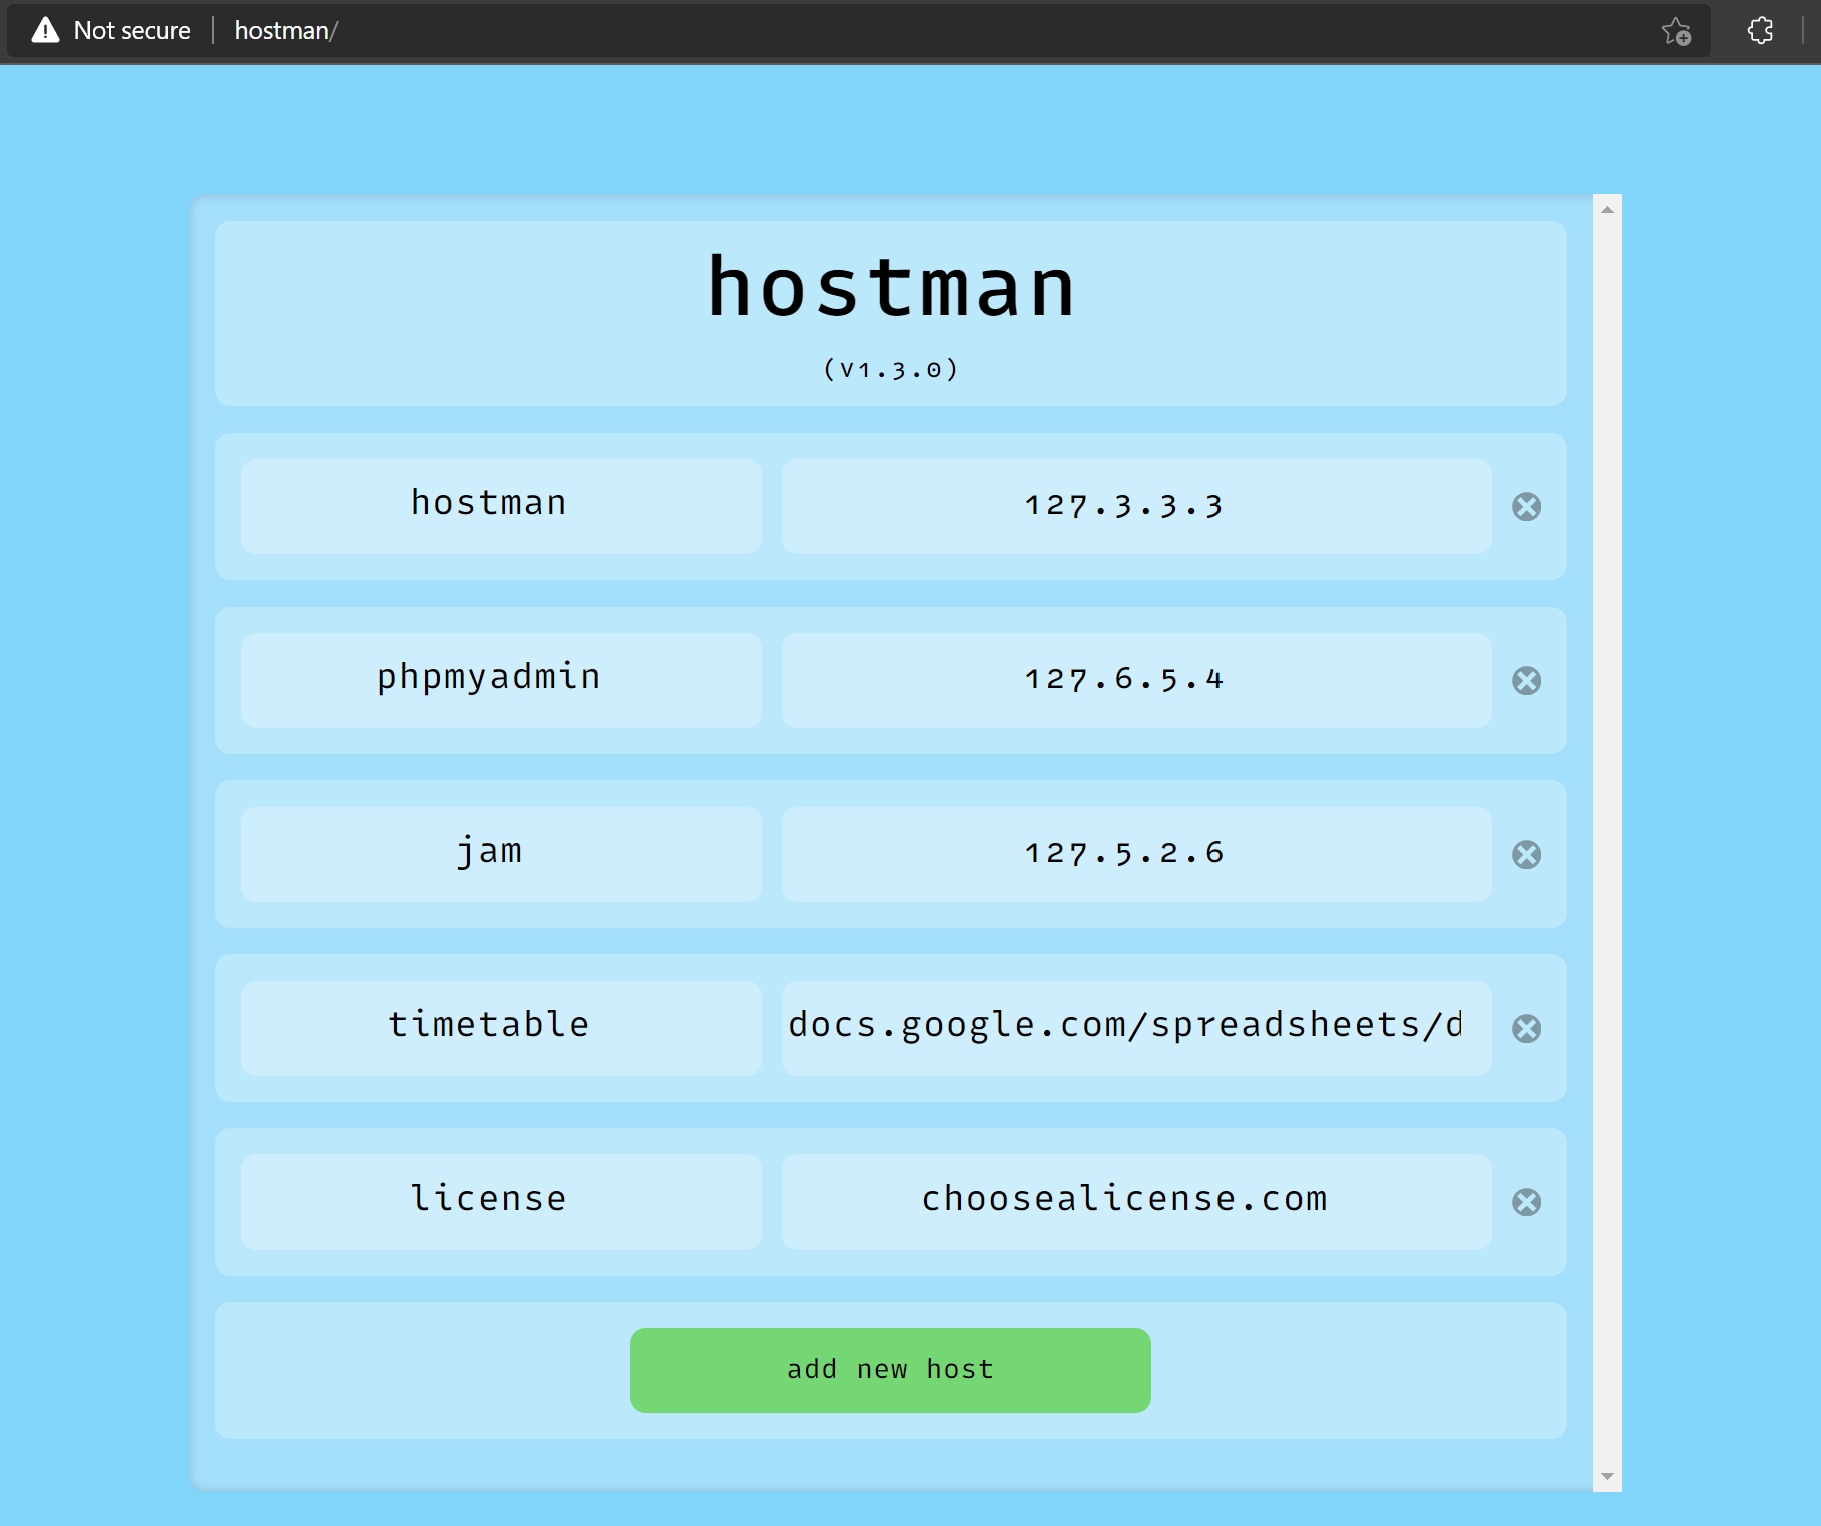
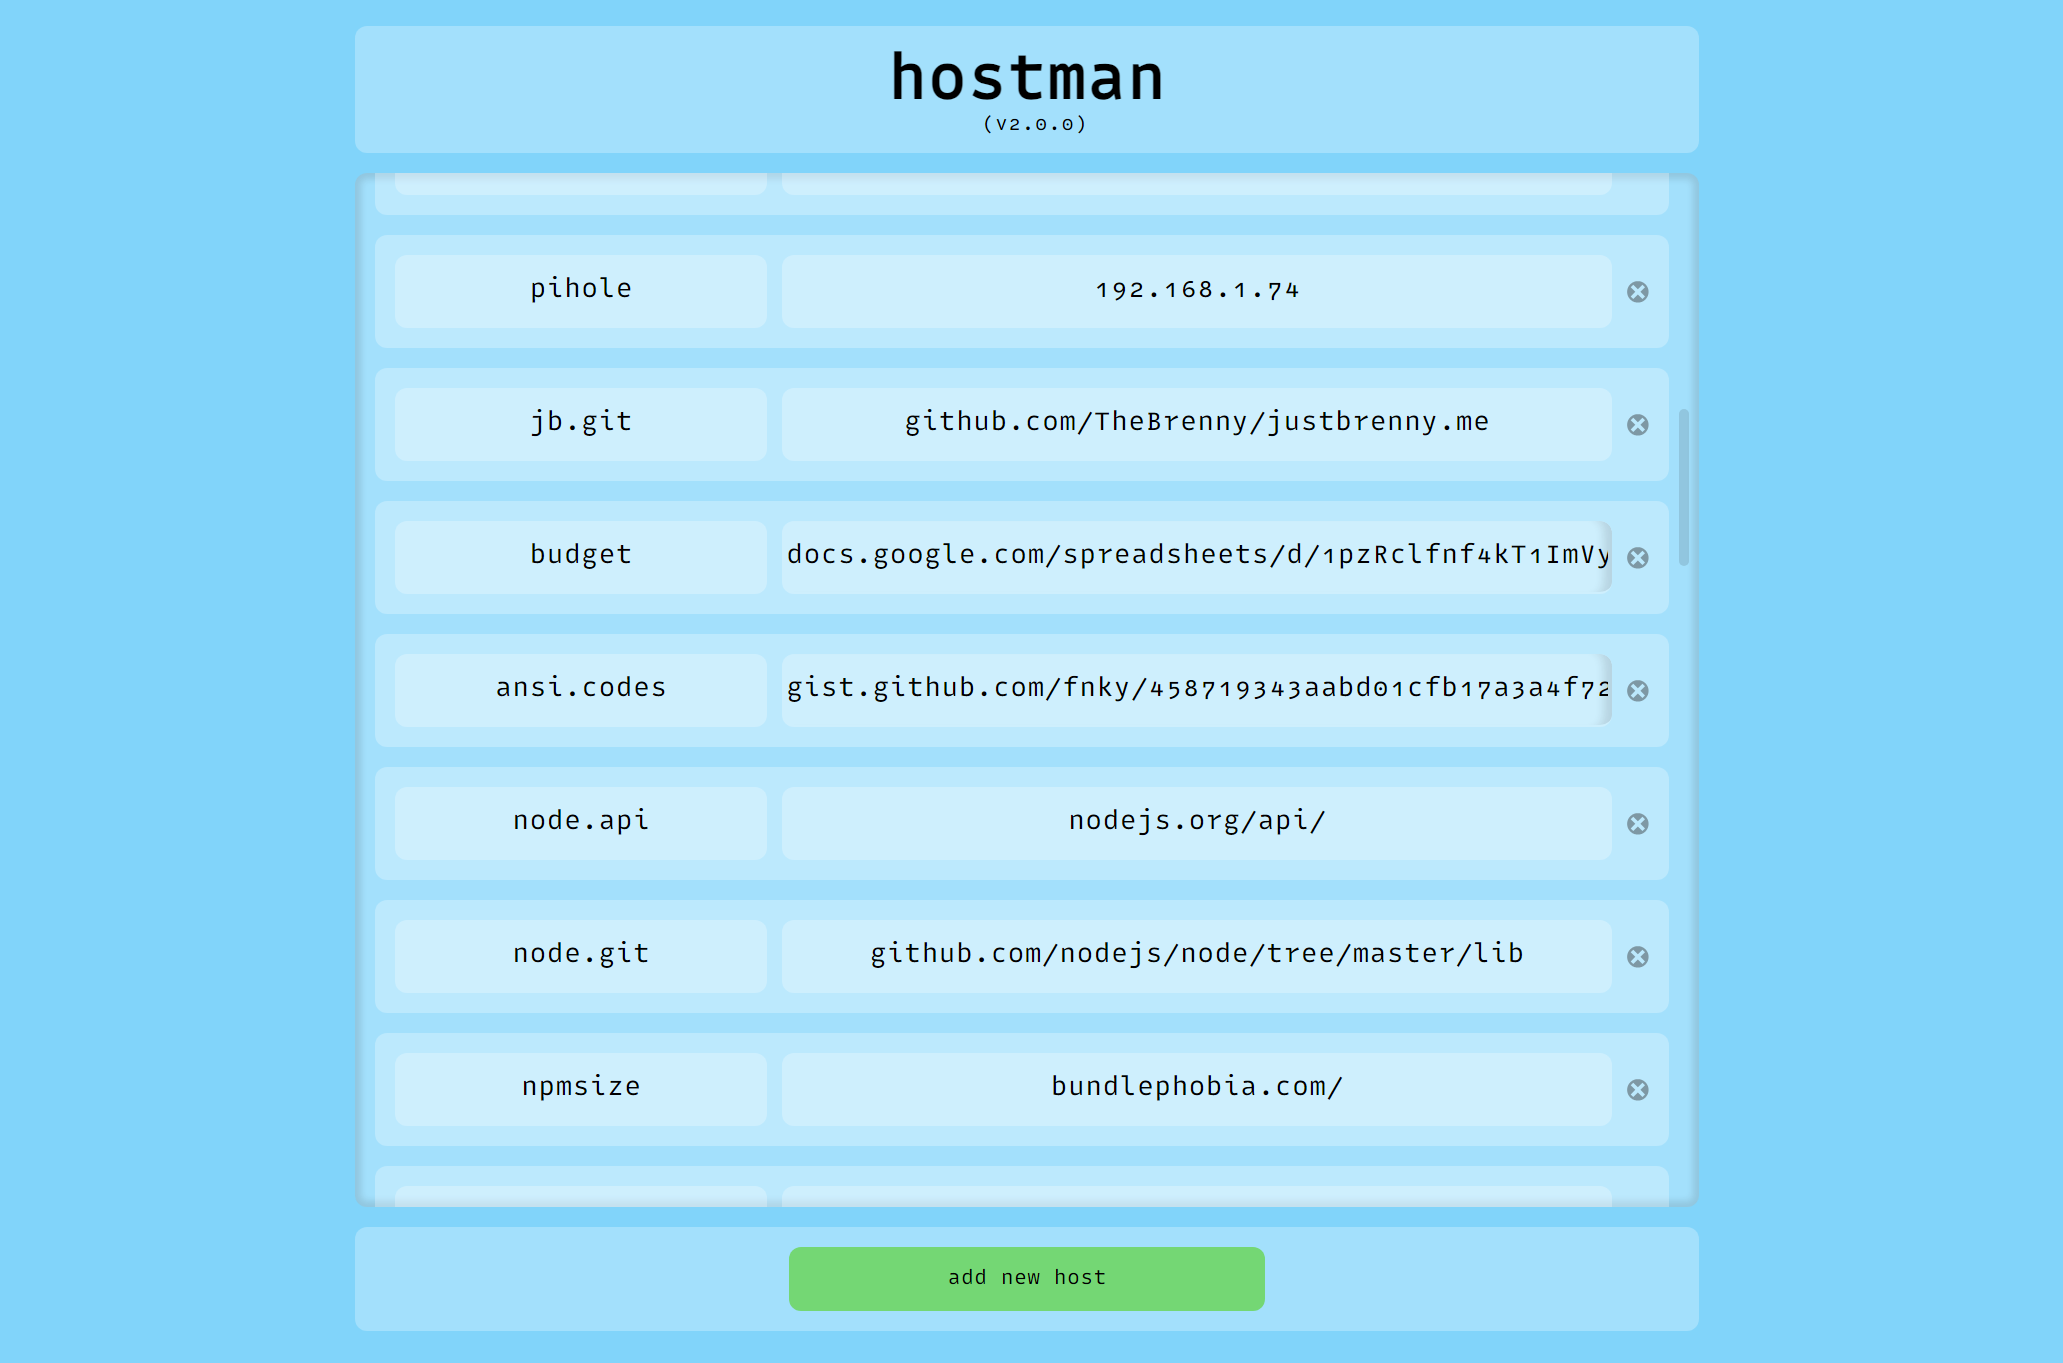
added shadow to text boxes

diff --git a/src/lib/Host.svelte b/src/lib/Host.svelte
@@ -1,5 +1,5 @@
 <script>
-    import { createEventDispatcher } from "svelte";
+    import { createEventDispatcher, onMount } from "svelte";
     import { HOST_STATES } from "./utils";
 
     export let hash = "";
@@ -94,10 +94,27 @@
         },
     };
 
-    $: if (host !== backups.host || address !== backups.address) {
-        state = HOST_STATES.DRAFT;
+    $: {
+        if (host !== backups.host || address !== backups.address) {
+            state = HOST_STATES.DRAFT;
+        }
     }
 
+    onMount(() => {
+        inputs.address?.addEventListener("scroll", () => fixShadows(inputs.address));
+        inputs.host?.addEventListener("scroll", () => fixShadows(inputs.host));
+        fixShadows(inputs.address);
+        fixShadows(inputs.host);
+    });
+
+    function fixShadows(input) {
+        if (input === null) return; // All this does is shut up the linter!
+
+        if (input.scrollWidth > input.clientWidth) {
+            input.classList.toggle("shadowLeft", input.scrollLeft > 0);
+            input.classList.toggle("shadowRight", input.scrollWidth - input.clientWidth - input.scrollLeft > 1);
+        }
+    }
     function toggleInputs(enabled) {
         Object.values(inputs).forEach((input) => input !== null && (input.disabled = !enabled));
     }
@@ -121,15 +138,19 @@
 </div>
 
 <style>
-    input.hostname,
-    input.address {
+    input[type="text"] {
         border-radius: 0.6rem;
-        padding: 1rem 1.2rem 1rem 0.2rem !important;
+        padding: 1rem 0.2rem !important;
         font-size: 1.3rem;
         border: none;
         display: block;
         box-sizing: border-box;
-        transition: border 0.2s;
+        transition:
+            border 0.2s,
+            box-shadow 0.2s;
+        box-shadow:
+            inset -0.6em 0px 7px -6px #00000000,
+            inset 0.6em 0px 7px -6px #00000000;
         background: var(--block-color);
         border-bottom: 0.1rem solid transparent;
 
@@ -137,6 +158,22 @@
         &:focus {
             border-bottom: 0.1rem solid var(--border-color);
             outline: none;
+        }
+
+        &.shadowLeft {
+            box-shadow:
+                inset -0.6em 0px 7px -6px #00000000,
+                inset 0.6em 0px 7px -6px var(--shadow-color);
+        }
+        &.shadowRight {
+            box-shadow:
+                inset -0.6em 0px 7px -6px var(--shadow-color),
+                inset 0.6em 0px 7px -6px #00000000;
+        }
+        &.shadowLeft.shadowRight {
+            box-shadow:
+                inset -0.6em 0px 7px -6px var(--shadow-color),
+                inset 0.6em 0px 7px -6px var(--shadow-color);
         }
     }
 
